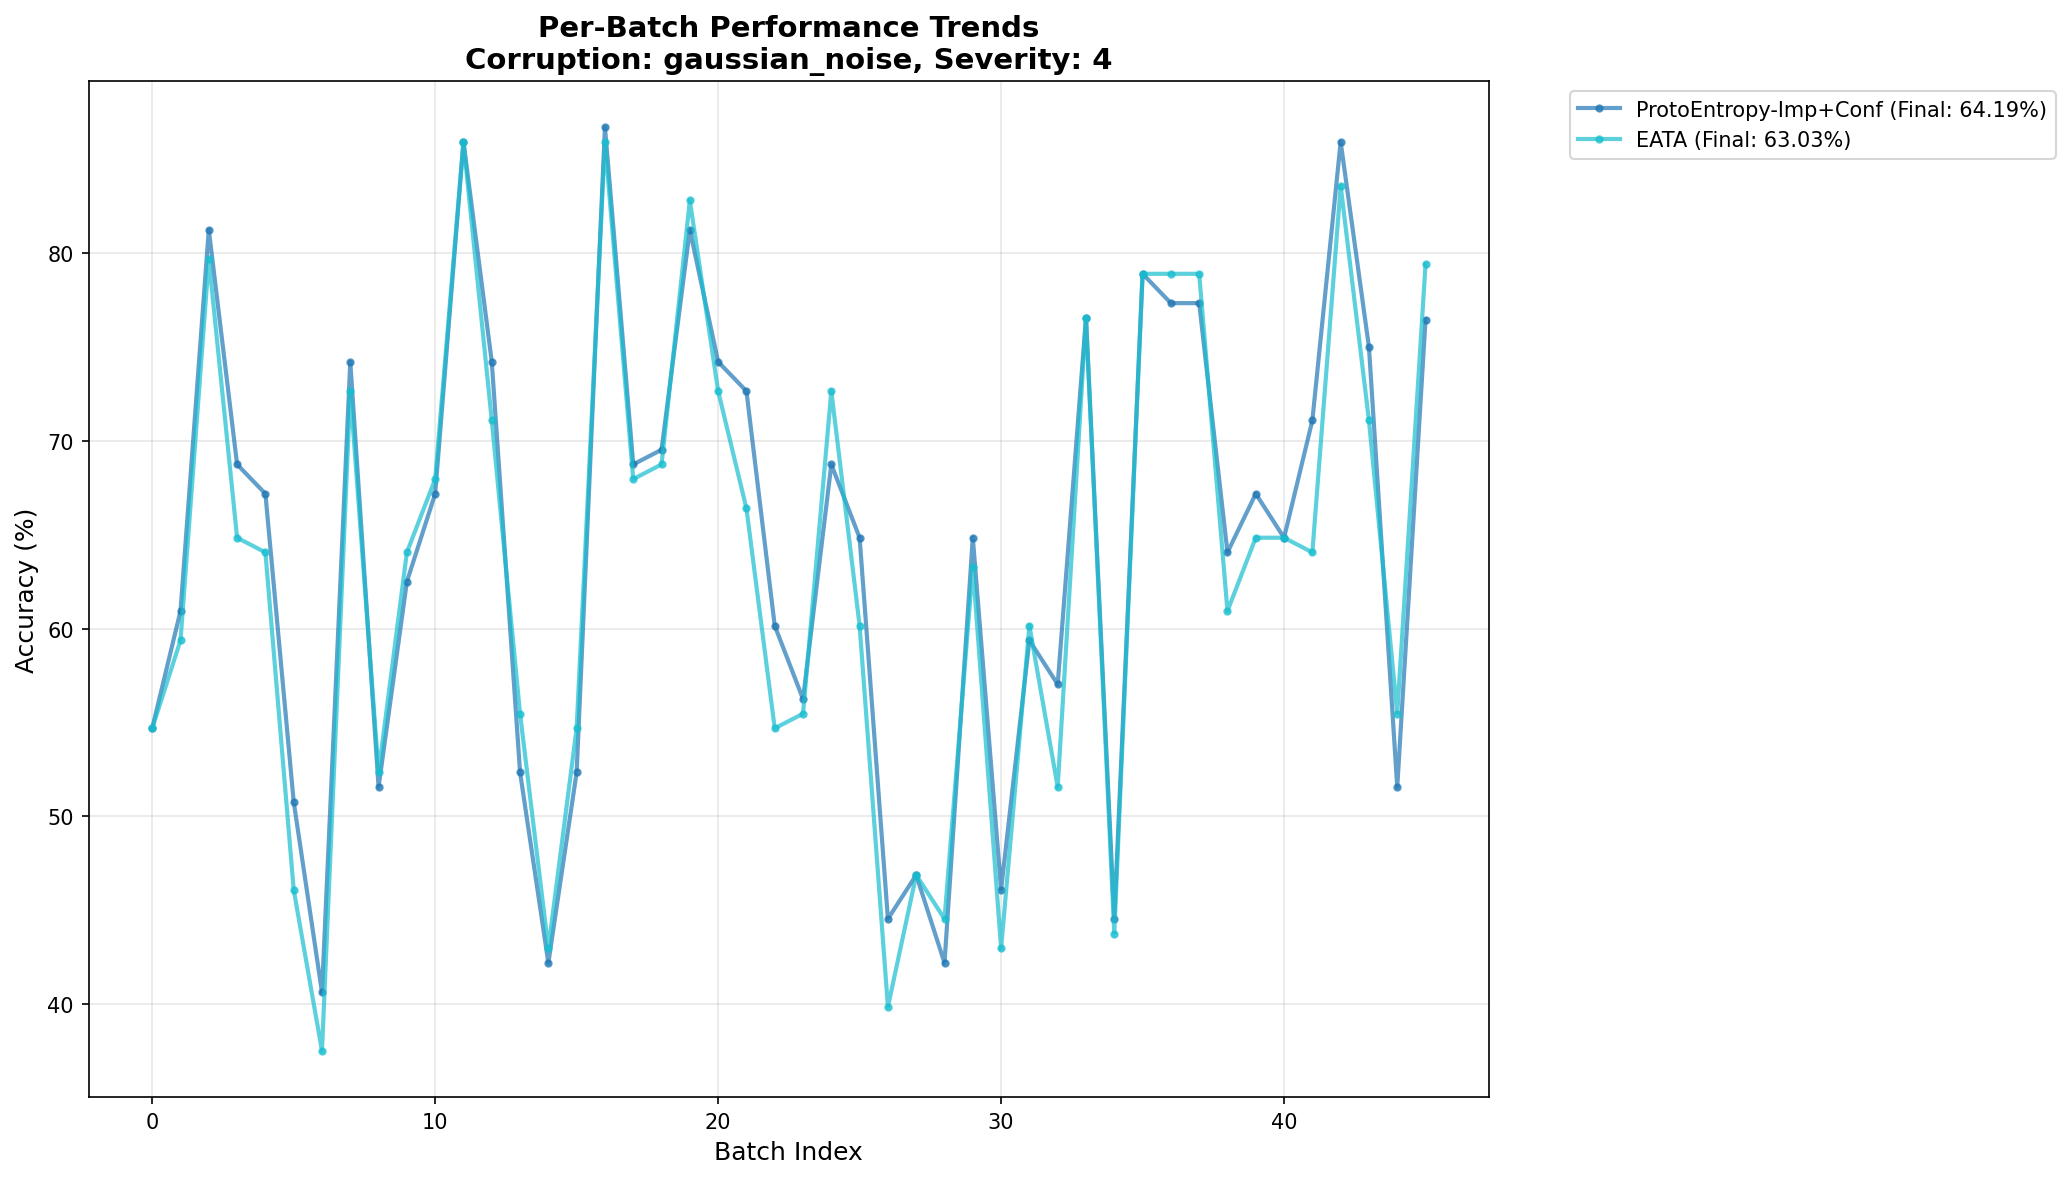
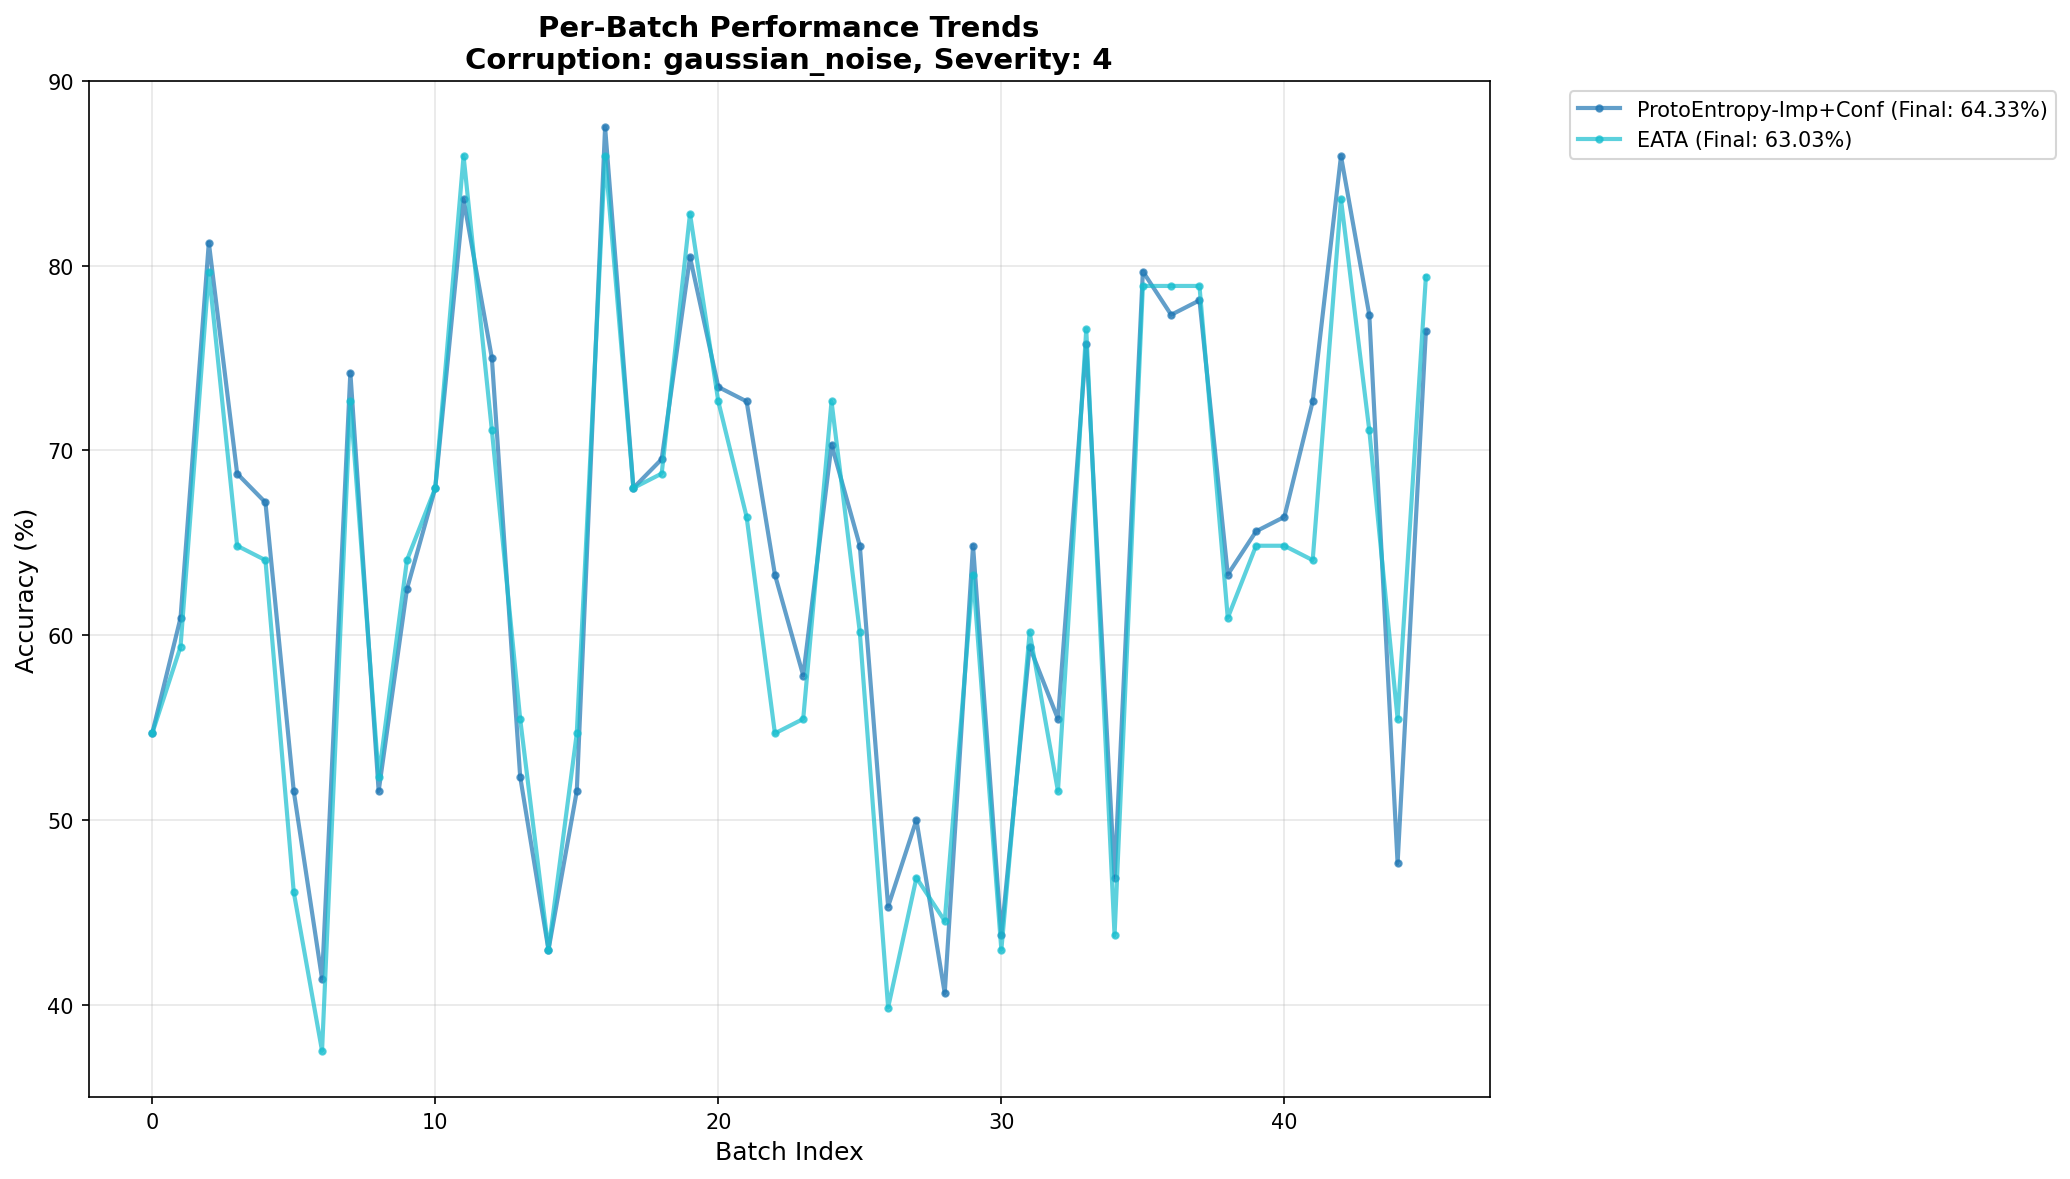
add consensus strategies

diff --git a/run_inference.py b/run_inference.py
@@ -85,7 +85,8 @@ def setup_tent(model):
 def setup_proto_entropy(model, use_importance=False, use_confidence=False, 
                         reset_mode=None, reset_frequency=10, 
                         confidence_threshold=0.7, ema_alpha=0.999,
-                        use_geometric_filter=False, geo_filter_threshold=0.3):
+                        use_geometric_filter=False, geo_filter_threshold=0.3,
+                        consensus_strategy='max', consensus_ratio=0.5):
     """Set up Prototype Entropy adaptation (without threshold).
     
     Args:
@@ -96,6 +97,8 @@ def setup_proto_entropy(model, use_importance=False, use_confidence=False,
         ema_alpha: EMA decay for 'ema' mode
         use_geometric_filter: Use geometric similarity to filter unreliable samples
         geo_filter_threshold: Minimum similarity to ANY prototype to be considered reliable
+        consensus_strategy: How to aggregate sub-prototypes ('max', 'mean', 'median', 'top_k_mean', 'weighted_mean')
+        consensus_ratio: For 'top_k_mean', fraction of sub-prototypes to use
     """
     model = proto_entropy.configure_model(model)
     params, param_names = proto_entropy.collect_params(model)
@@ -112,7 +115,9 @@ def setup_proto_entropy(model, use_importance=False, use_confidence=False,
         confidence_threshold=confidence_threshold,
         ema_alpha=ema_alpha,
         use_geometric_filter=use_geometric_filter,
-        geo_filter_threshold=geo_filter_threshold
+        geo_filter_threshold=geo_filter_threshold,
+        consensus_strategy=consensus_strategy,
+        consensus_ratio=consensus_ratio
     )
     return proto_model
 
@@ -379,7 +384,8 @@ def evaluate_model(model, loader, description="Inference", track_per_batch=False
 def run_unified_inference(model_path, gpu_id='0', corruption=None, severity=1, mode='all', 
                          use_pre_generated=True, use_clean_fisher=False, proto_threshold=None,
                          reset_mode=None, reset_frequency=10, confidence_threshold=0.7, ema_alpha=0.999,
-                         use_geometric_filter=False, geo_filter_threshold=0.3, output_dir='./plots'):
+                         use_geometric_filter=False, geo_filter_threshold=0.3, output_dir='./plots',
+                         consensus_strategy='max', consensus_ratio=0.5):
     # Set GPU
     os.environ['CUDA_VISIBLE_DEVICES'] = gpu_id
     print(f'Using GPU: {os.environ["CUDA_VISIBLE_DEVICES"]}')
@@ -503,12 +509,14 @@ def run_unified_inference(model_path, gpu_id='0', corruption=None, severity=1, m
 
         # Setup ProtoEntropy (without threshold)
         filter_info = f", geo_filter={use_geometric_filter}" if use_geometric_filter else ""
-        print(f"Setting up ProtoEntropy (reset_mode={reset_mode}, freq={reset_frequency} batches{filter_info})...")
+        consensus_info = f", consensus={consensus_strategy}" if consensus_strategy != 'max' else ""
+        print(f"Setting up ProtoEntropy (reset_mode={reset_mode}, freq={reset_frequency} batches{filter_info}{consensus_info})...")
         proto_model = setup_proto_entropy(base_model, use_importance=False, use_confidence=False,
                                          reset_mode=reset_mode, reset_frequency=reset_frequency,
                                          confidence_threshold=confidence_threshold, ema_alpha=ema_alpha,
                                          use_geometric_filter=use_geometric_filter, 
-                                         geo_filter_threshold=geo_filter_threshold)
+                                         geo_filter_threshold=geo_filter_threshold,
+                                         consensus_strategy=consensus_strategy, consensus_ratio=consensus_ratio)
 
         if hasattr(proto_model, 'reset_geo_filter_stats'):
             proto_model.reset_geo_filter_stats()
@@ -542,12 +550,14 @@ def run_unified_inference(model_path, gpu_id='0', corruption=None, severity=1, m
 
         # Setup ProtoEntropy with importance weighting
         filter_info = f", geo_filter={use_geometric_filter}" if use_geometric_filter else ""
-        print(f"Setting up ProtoEntropy+Importance (reset_mode={reset_mode}, freq={reset_frequency}{filter_info})...")
+        consensus_info = f", consensus={consensus_strategy}" if consensus_strategy != 'max' else ""
+        print(f"Setting up ProtoEntropy+Importance (reset_mode={reset_mode}, freq={reset_frequency}{filter_info}{consensus_info})...")
         proto_model = setup_proto_entropy(base_model, use_importance=True, use_confidence=False,
                                          reset_mode=reset_mode, reset_frequency=reset_frequency,
                                          confidence_threshold=confidence_threshold, ema_alpha=ema_alpha,
                                          use_geometric_filter=use_geometric_filter, 
-                                         geo_filter_threshold=geo_filter_threshold)
+                                         geo_filter_threshold=geo_filter_threshold,
+                                         consensus_strategy=consensus_strategy, consensus_ratio=consensus_ratio)
 
         if hasattr(proto_model, 'reset_geo_filter_stats'):
             proto_model.reset_geo_filter_stats()
@@ -581,12 +591,14 @@ def run_unified_inference(model_path, gpu_id='0', corruption=None, severity=1, m
 
         # Setup ProtoEntropy with confidence weighting
         filter_info = f", geo_filter={use_geometric_filter}" if use_geometric_filter else ""
-        print(f"Setting up ProtoEntropy+Confidence (reset_mode={reset_mode}, freq={reset_frequency}{filter_info})...")
+        consensus_info = f", consensus={consensus_strategy}" if consensus_strategy != 'max' else ""
+        print(f"Setting up ProtoEntropy+Confidence (reset_mode={reset_mode}, freq={reset_frequency}{filter_info}{consensus_info})...")
         proto_model = setup_proto_entropy(base_model, use_importance=False, use_confidence=True,
                                          reset_mode=reset_mode, reset_frequency=reset_frequency,
                                          confidence_threshold=confidence_threshold, ema_alpha=ema_alpha,
                                          use_geometric_filter=use_geometric_filter, 
-                                         geo_filter_threshold=geo_filter_threshold)
+                                         geo_filter_threshold=geo_filter_threshold,
+                                         consensus_strategy=consensus_strategy, consensus_ratio=consensus_ratio)
 
         if hasattr(proto_model, 'reset_geo_filter_stats'):
             proto_model.reset_geo_filter_stats()
@@ -620,12 +632,14 @@ def run_unified_inference(model_path, gpu_id='0', corruption=None, severity=1, m
 
         # Setup ProtoEntropy with both importance and confidence weighting
         filter_info = f", geo_filter={use_geometric_filter}" if use_geometric_filter else ""
-        print(f"Setting up ProtoEntropy Imp+Conf (reset_mode={reset_mode}, freq={reset_frequency}{filter_info})...")
+        consensus_info = f", consensus={consensus_strategy}" if consensus_strategy != 'max' else ""
+        print(f"Setting up ProtoEntropy Imp+Conf (reset_mode={reset_mode}, freq={reset_frequency}{filter_info}{consensus_info})...")
         proto_model = setup_proto_entropy(base_model, use_importance=True, use_confidence=True,
                                          reset_mode=reset_mode, reset_frequency=reset_frequency,
                                          confidence_threshold=confidence_threshold, ema_alpha=ema_alpha,
                                          use_geometric_filter=use_geometric_filter, 
-                                         geo_filter_threshold=geo_filter_threshold)
+                                         geo_filter_threshold=geo_filter_threshold,
+                                         consensus_strategy=consensus_strategy, consensus_ratio=consensus_ratio)
 
         # Reset stats before evaluation
         if hasattr(proto_model, 'reset_geo_filter_stats'):
@@ -1011,6 +1025,23 @@ if __name__ == '__main__':
         help='Directory to save performance plots (default: ./plots)'
     )
     
+    parser.add_argument(
+        '--consensus-strategy',
+        type=str,
+        default='max',
+        choices=['max', 'mean', 'median', 'top_k_mean', 'weighted_mean'],
+        help='Strategy for aggregating sub-prototypes: '
+             'max (best sub-proto, default), mean (all must agree), median (robust), '
+             'top_k_mean (soft consensus), weighted_mean (similarity-weighted)'
+    )
+    
+    parser.add_argument(
+        '--consensus-ratio',
+        type=float,
+        default=0.5,
+        help='For top_k_mean consensus: fraction of sub-prototypes to use (default: 0.5 = top 50%%)'
+    )
+    
     args = parser.parse_args()
     
     # Handle no-corruption flag
@@ -1027,4 +1058,5 @@ if __name__ == '__main__':
     run_unified_inference(args.model, args.gpuid, corruption, args.severity, args.mode, 
                          use_pre_generated, args.use_clean_fisher, args.proto_threshold,
                          args.reset_mode, args.reset_frequency, args.confidence_threshold, args.ema_alpha,
-                         args.use_geometric_filter, args.geo_filter_threshold, args.output_dir)
+                         args.use_geometric_filter, args.geo_filter_threshold, args.output_dir,
+                         args.consensus_strategy, args.consensus_ratio)

diff --git a/proto_entropy.py b/proto_entropy.py
@@ -10,7 +10,8 @@ class ProtoEntropy(nn.Module):
                  use_prototype_importance=False, use_confidence_weighting=False,
                  reset_mode=None, reset_frequency=10, 
                  confidence_threshold=0.7, ema_alpha=0.999,
-                 use_geometric_filter=False, geo_filter_threshold=0.3):
+                 use_geometric_filter=False, geo_filter_threshold=0.3,
+                 consensus_strategy='max', consensus_ratio=0.5):
         """
         Args:
             episodic: If True, uses 'episodic' reset_mode (backward compatibility)
@@ -25,6 +26,13 @@ class ProtoEntropy(nn.Module):
             use_geometric_filter: If True, filter unreliable samples using geometric similarity to prototypes
             geo_filter_threshold: Minimum similarity to ANY prototype to be considered reliable (default: 0.3)
                                  Higher = more strict filtering, Lower = accept more samples
+            consensus_strategy: How to aggregate sub-prototype similarities for filtering/adaptation:
+                               'max' - use best sub-prototype (original, can be fooled by outliers)
+                               'mean' - use average across sub-prototypes (requires consensus)
+                               'median' - use median across sub-prototypes (robust to outliers)
+                               'top_k_mean' - average of top-K sub-prototypes (soft consensus)
+                               'weighted_mean' - similarity-weighted mean (high sims matter more)
+            consensus_ratio: For 'top_k_mean', what fraction of sub-prototypes to use (default: 0.5 = top 50%)
         """
         super().__init__()
         self.model = model
@@ -40,6 +48,10 @@ class ProtoEntropy(nn.Module):
         # Geometric filtering parameters
         self.use_geometric_filter = use_geometric_filter
         self.geo_filter_threshold = geo_filter_threshold
+        
+        # Consensus strategy parameters
+        self.consensus_strategy = consensus_strategy
+        self.consensus_ratio = consensus_ratio
         
         # New reset mechanism parameters
         # If reset_mode not specified, infer from episodic flag for backward compatibility
@@ -144,6 +156,50 @@ class ProtoEntropy(nn.Module):
                     self.ema_state[key] = (self.ema_alpha * self.ema_state[key] + 
                                           (1 - self.ema_alpha) * current_state[key])
             self.model.load_state_dict(self.ema_state, strict=True)
+    
+    def compute_consensus_similarity(self, similarities):
+        """Compute consensus-based similarity across sub-prototypes.
+        
+        Args:
+            similarities: [Batch, Prototypes, Sub-prototypes] or [Batch, Prototypes]
+        
+        Returns:
+            aggregated_sims: [Batch, Prototypes] - consensus similarity per prototype
+        """
+        if similarities.dim() == 2:
+            # No sub-prototypes, return as-is
+            return similarities
+        
+        # similarities: [B, P, K]
+        if self.consensus_strategy == 'max':
+            # Original: take best sub-prototype
+            aggregated_sims, _ = similarities.max(dim=2)
+        
+        elif self.consensus_strategy == 'mean':
+            # Consensus: all sub-prototypes must agree (average)
+            aggregated_sims = similarities.mean(dim=2)
+        
+        elif self.consensus_strategy == 'median':
+            # Robust consensus: median across sub-prototypes
+            aggregated_sims = similarities.median(dim=2)[0]
+        
+        elif self.consensus_strategy == 'top_k_mean':
+            # Soft consensus: average of top-K sub-prototypes
+            K = similarities.shape[2]
+            top_k = max(1, int(K * self.consensus_ratio))
+            top_sims, _ = torch.topk(similarities, k=top_k, dim=2)
+            aggregated_sims = top_sims.mean(dim=2)
+        
+        elif self.consensus_strategy == 'weighted_mean':
+            # Weighted by similarity: high similarities contribute more
+            # Use softmax as weights
+            weights = F.softmax(similarities * 10, dim=2)  # Temperature=0.1
+            aggregated_sims = (similarities * weights).sum(dim=2)
+        
+        else:
+            raise ValueError(f"Unknown consensus_strategy: {self.consensus_strategy}")
+        
+        return aggregated_sims
 
     def reset(self):
         """Reset model parameters to pretrained state."""
@@ -203,26 +259,16 @@ class ProtoEntropy(nn.Module):
             proto_class_identity = self.model.prototype_class_identity.to(logits.device)
             proto_identities = proto_class_identity.argmax(dim=1)
 
-        # 3. Flatten/Max over sub-prototypes for main loss
-        if similarities.dim() == 3:
-            sim_scores, _ = similarities.max(dim=2)
-        else:
-            sim_scores = similarities
+        # 3. Aggregate sub-prototypes using consensus strategy
+        sim_scores = self.compute_consensus_similarity(similarities)
 
         # ========== Geometric Filtering: Filter unreliable samples ==========
         if self.use_geometric_filter:
             with torch.no_grad():
-                # Use sub-prototypes for more robust filtering
-                if similarities.dim() == 3:
-                    # [B, P, K] - Use average across top sub-prototypes per prototype
-                    # This is more robust than just the max (handles outlier sub-prototypes)
-                    top_k = min(3, similarities.shape[2])  # Top 3 sub-protos (or all if < 3)
-                    top_sims, _ = torch.topk(similarities, k=top_k, dim=2)  # [B, P, top_k]
-                    avg_top_sims = top_sims.mean(dim=2)  # [B, P] - average of top sub-protos
-                    max_sim_per_sample = avg_top_sims.max(dim=1)[0]  # [B]
-                else:
-                    # No sub-prototypes, use the max similarity directly
-                    max_sim_per_sample = sim_scores.max(dim=1)[0]  # [B]
+                # Use consensus similarity (already computed) for filtering
+                # sim_scores is [B, P] after consensus aggregation
+                # Find the best prototype match per sample
+                max_sim_per_sample = sim_scores.max(dim=1)[0]  # [B]
                 
                 # Track statistics
                 batch_size = max_sim_per_sample.shape[0]
